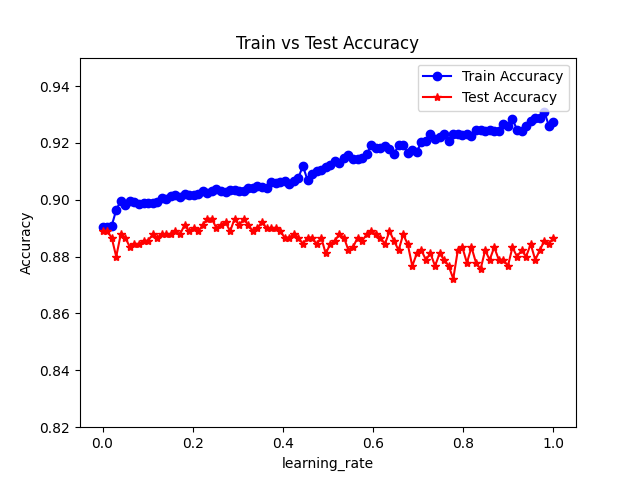
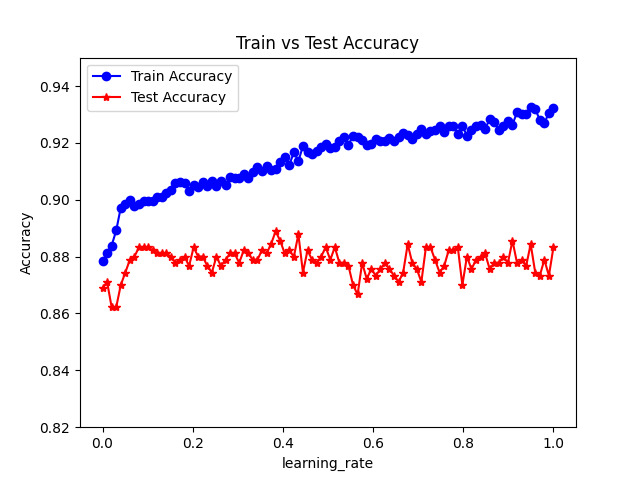
random seed

Changed region(s): [[0.1562, 0.125, 0.875, 0.6562], [0.125, 0.125, 0.375, 0.2188]]

diff --git a/adaB_test_valid_curve.py b/adaB_test_valid_curve.py
@@ -1,4 +1,5 @@
 # datasets
+import random
 from sklearn.datasets import load_breast_cancer, fetch_20newsgroups_vectorized, fetch_openml
 
 # python packages
@@ -50,48 +51,6 @@ def generate_graph(df, p_name):
     plt.savefig(f"{p_name}.png", format='png')
 
 
-def main():
-    args = parse_args()
-    if args.dataset == "cancer":
-        data = load_breast_cancer()
-        X = data['data']
-        y = data['target']
-    elif args.dataset == "news":
-        data = fetch_20newsgroups_vectorized(subset='all')
-        X = data['data']
-        y = data['target']
-        X,y = utils.shuffle(X,y) # shuffle the rows 
-        X = X[:1000] # only keep 1000 examples
-        y = y[:1000]
-    elif args.dataset == "mnist":
-        data = fetch_openml('mnist_784', data_home="/Users/ali/Desktop/cs383/HW07")
-        X = data['data']
-        y = data['target']
-        X,y = utils.shuffle(X,y) # shuffle the rows
-        X = X[:1000] # only keep 1000 examples
-        y = y[:1000]
-        X = X/255 # normalize the feature values
-    else:
-        raise ValueError(f"Unsupported dataset: {args.dataset}")
-
-    # # KNN
-    # knn_clf = KNeighborsClassifier()
-    # n_neighbors_values = range(1, 22, 2)
-    # run_VC(knn_clf, X, y, 'n_neighbors', n_neighbors_values)
-
-    # Random Forest
-    rf_clf = RandomForestClassifier()
-    n_estimator_values = range(1, 202, 10)
-    df_rf = run_VC(rf_clf, X, y, 'n_estimators', n_estimator_values)
-    generate_graph(df_rf, 'n_estimators')
-
-    
-
-    # Support Vector Machine
-    svm_clf = svm.SVC()
-    gamma_values = np.logspace(-4, 1, num=6)
-    df_svm = run_VC(svm_clf, X, y, 'gamma', gamma_values)
-    generate_graph(df_svm, 'gamma')
 
 from ucimlrepo import fetch_ucirepo 
 import pandas as pd
@@ -104,6 +63,11 @@ import matplotlib.pyplot as plt
 from sklearn.model_selection import train_test_split, cross_val_score
 import matplotlib.pyplot as plt
 import numpy as np
+
+
+random.seed(26)
+np.random.seed(26)
+
 online_shoppers_purchasing_intention_dataset = fetch_ucirepo(id=468) 
   
 X = online_shoppers_purchasing_intention_dataset.data.features 

diff --git a/adaB_validationCurve_learning_rate.py b/adaB_validationCurve_learning_rate.py
@@ -9,6 +9,11 @@ import matplotlib.pyplot as plt
 from sklearn.model_selection import train_test_split, cross_val_score
 import matplotlib.pyplot as plt
 import numpy as np
+import random
+
+random.seed(26)
+np.random.seed(26)
+
 online_shoppers_purchasing_intention_dataset = fetch_ucirepo(id=468) 
   
 X = online_shoppers_purchasing_intention_dataset.data.features 
@@ -49,6 +54,6 @@ plt.ylim(0.82,0.95)
 plt.xlabel('learning rate')
 plt.ylabel('Accuracy')
 plt.title('Validation Curve for AdaBoost')
+plt.legend(loc='upper left')
 plt.savefig("Validation Curve for AdaBoost (learning_rate_1).png")
-plt.legend()
 plt.show()
